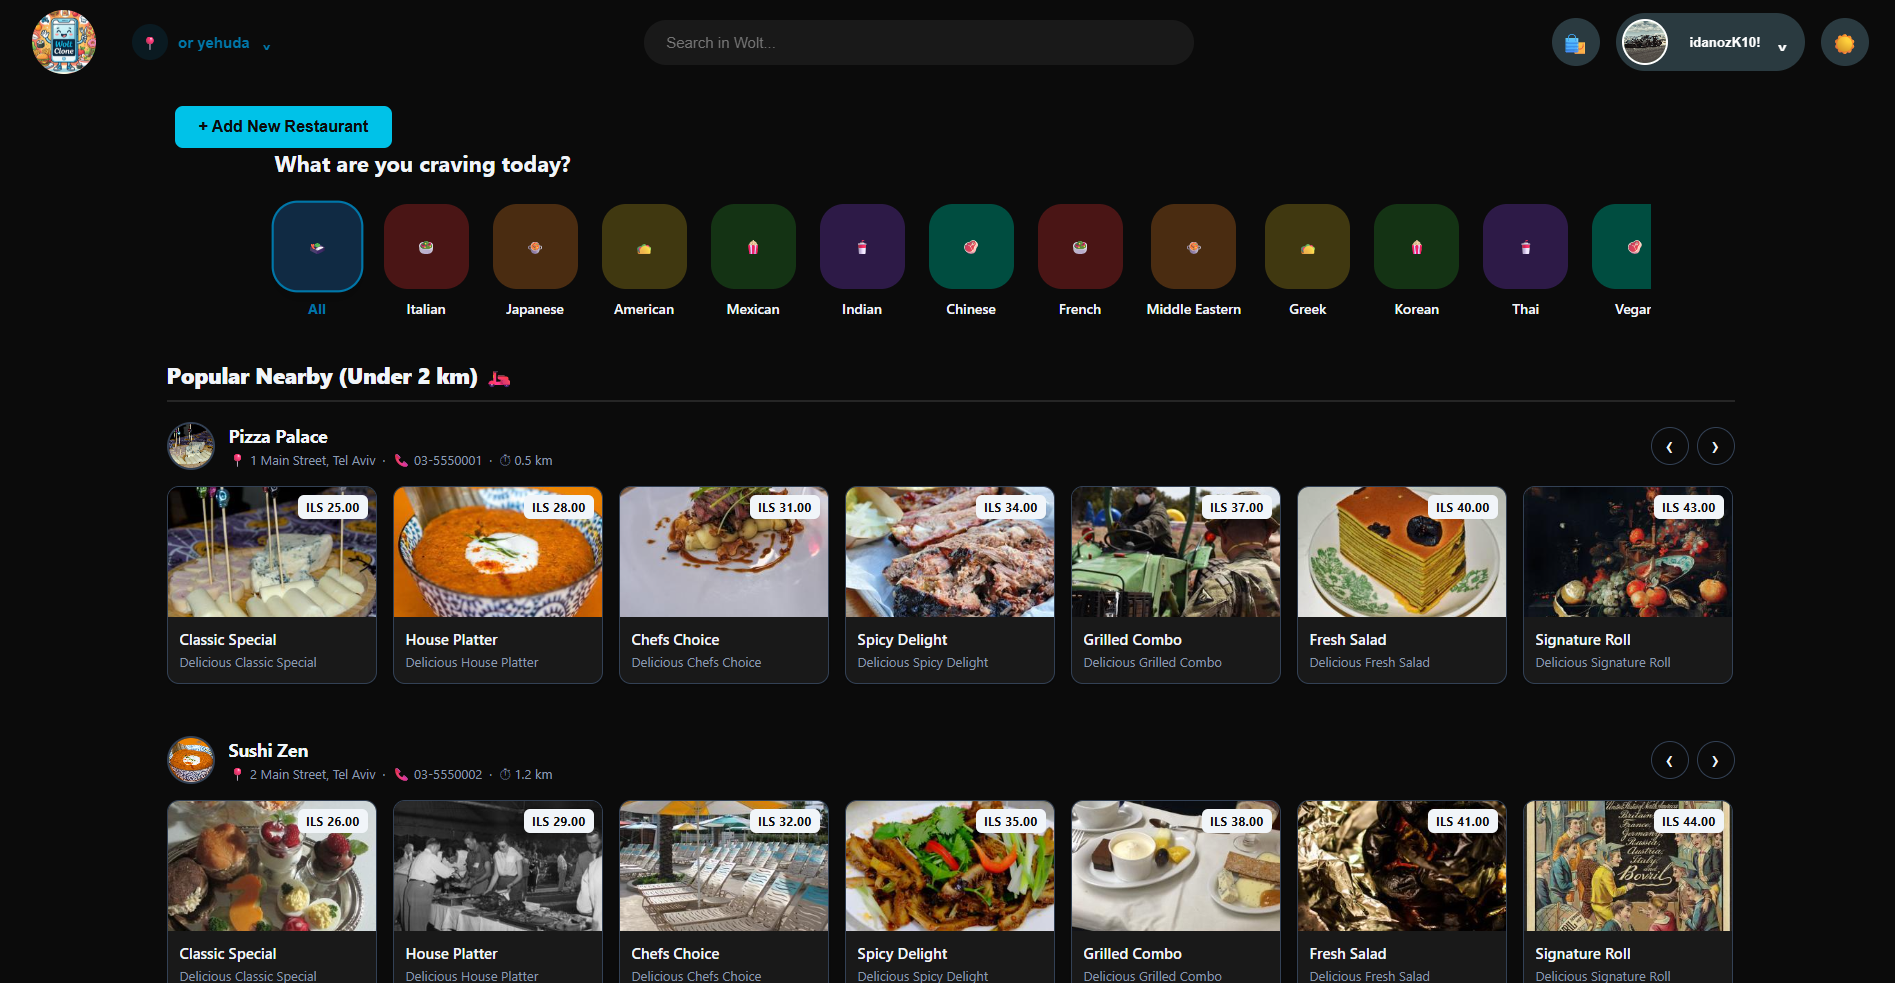
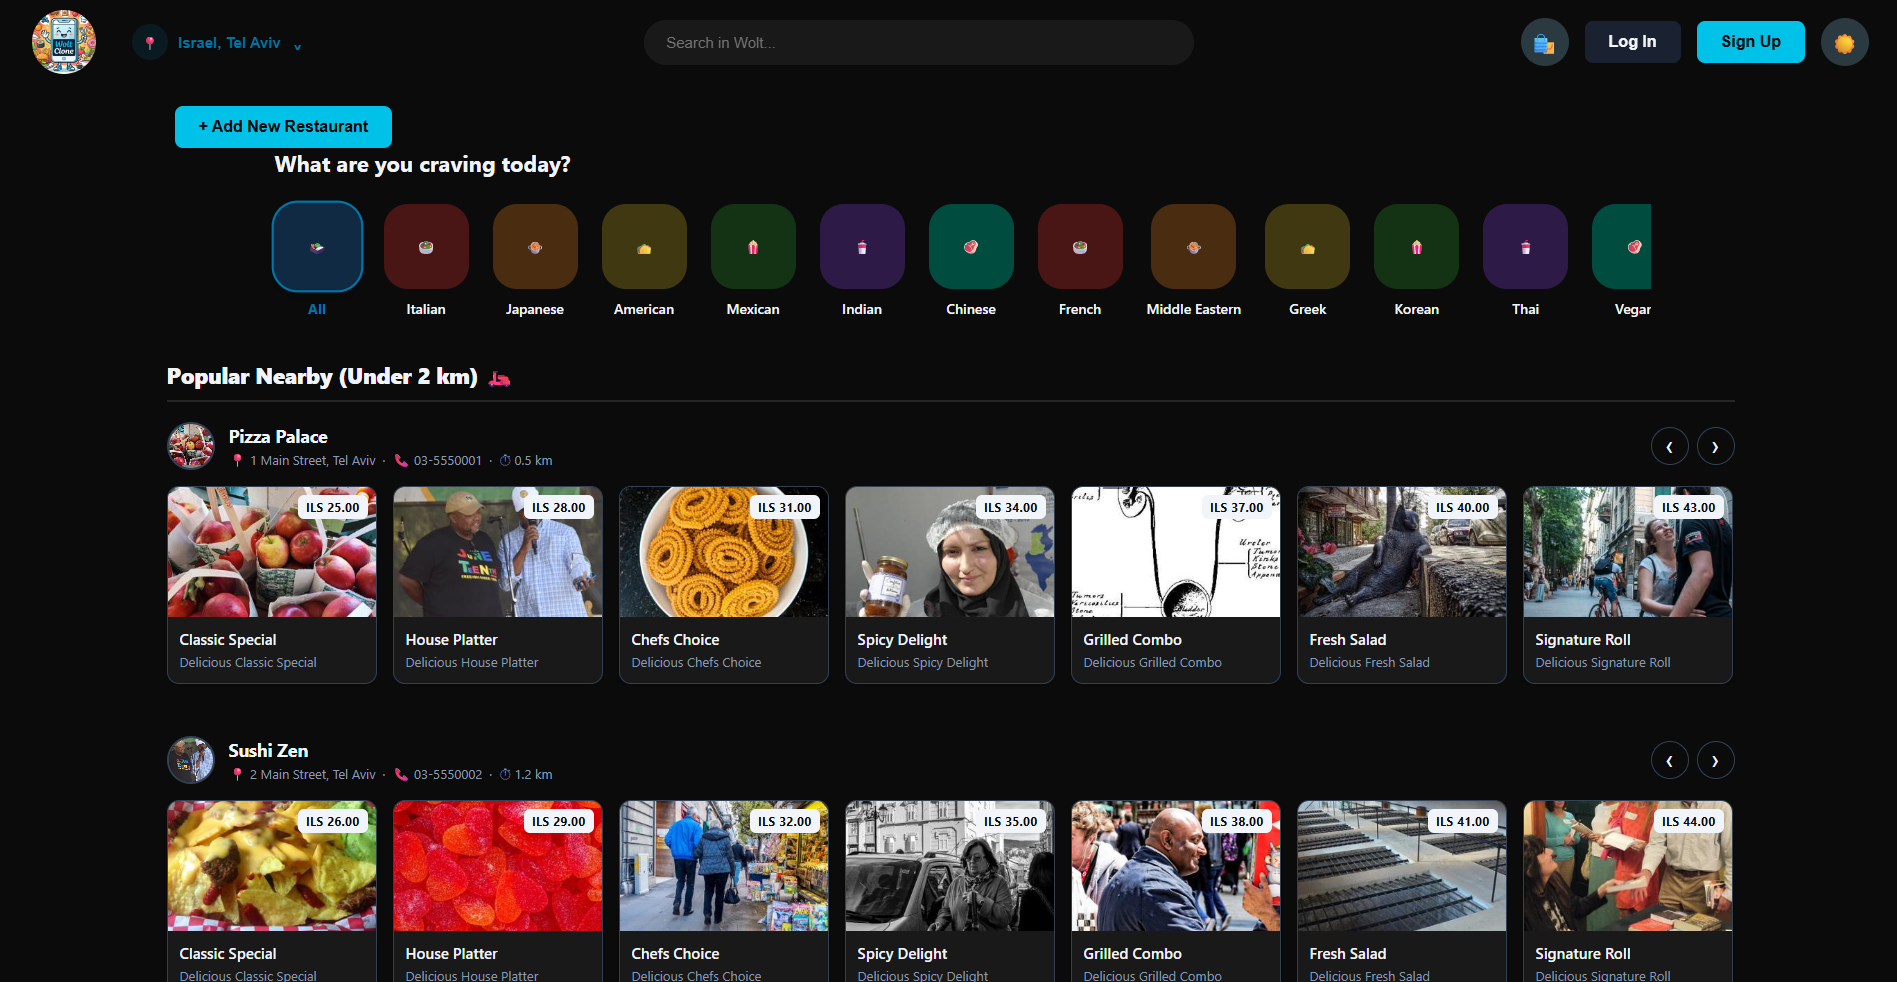
LAST UPDATE README

diff --git a/README.md b/README.md
@@ -112,6 +112,12 @@ In compliance with project guidelines, no real passwords, private information, s
 
 ## 📱 Application Features & Usage Guide
 
+### Smart Navigation
+* **Dynamic Logo Button:** The main logo located at the top-left corner serves as a smart and intuitive navigation shortcut. If you are browsing anywhere in the application, clicking the logo will instantly take you to the main **Restaurants Page**. However, if you are already on the Restaurants page, clicking it will seamlessly return you to the **Home Page**.
+If you are logged in, clicking the logo from the **Home Page** will take you to the main **Restaurants Page**.
+
+![Guest Browsing](wolt-web/src/assets/logo.png)
+
 ### Guest Access
 You can easily explore the application as a guest! Simply enter your delivery address on the main screen to browse nearby restaurants, view menus, and search for items without needing an account.
 
@@ -120,21 +126,27 @@ You can easily explore the application as a guest! Simply enter your delivery ad
 
 * **Dark Mode / Light Mode:** Easily toggle between viewing themes using the dedicated switch in the top navigation bar to suit your personal preference.
 
-![User Profile & Orders](photos/pic10.png)
-
-**Strict Registration Validations:**
-* **Password:** Must be at least 8 characters long, and include at least one uppercase letter, one number, and one special character.
-* **Phone Number:** Must contain valid numeric digits only and 7-10 digits.
+![Dark Mode / Light Mode](photos/pic10.png)
 
 ### Registered Users & Authentication
 To unlock the full capabilities of the application, such as **placing an order** or **creating a new restaurant**, you must sign up and log in.
+
+![Registration Screen](photos/pic7.png)
+
+**Strict Registration Validations:**
+* **Password:** Must be at least 8 characters long, and include at least one uppercase letter, one number, and one special character.
+* **Phone Number:** Must contain valid numeric digits only.
+
 
 ### Restaurant Ownership & Management
 * **Create & Edit:** As an authenticated user, you can create your very own restaurant and populate it with a custom menu of products. You retain full control to update and edit your restaurant's details and menu items at any time.
 * **Access Control:** Restaurant modifications are strictly restricted to the creator (owner). If you visit a restaurant created by someone else, you can seamlessly browse the menu and place orders, but you will not have permission to alter any of its data.
 
-![Registration Screen](photos/pic7.png)
+![Restaurant Ownership & Management](photos/pic11.png)
+![Restaurant Ownership & Management](photos/pic12.png)
 
+*(NOTE: The pictures are example of a restaurant I added.
+It automaticly shows them under **My Restaurants**)*
 
 ### Cart & Ordering Rules
 * **Single Restaurant Policy:** Just like the real Wolt app, a single order can only contain items from one restaurant at a time. Mixing items from multiple restaurants in the same cart is not allowed.
